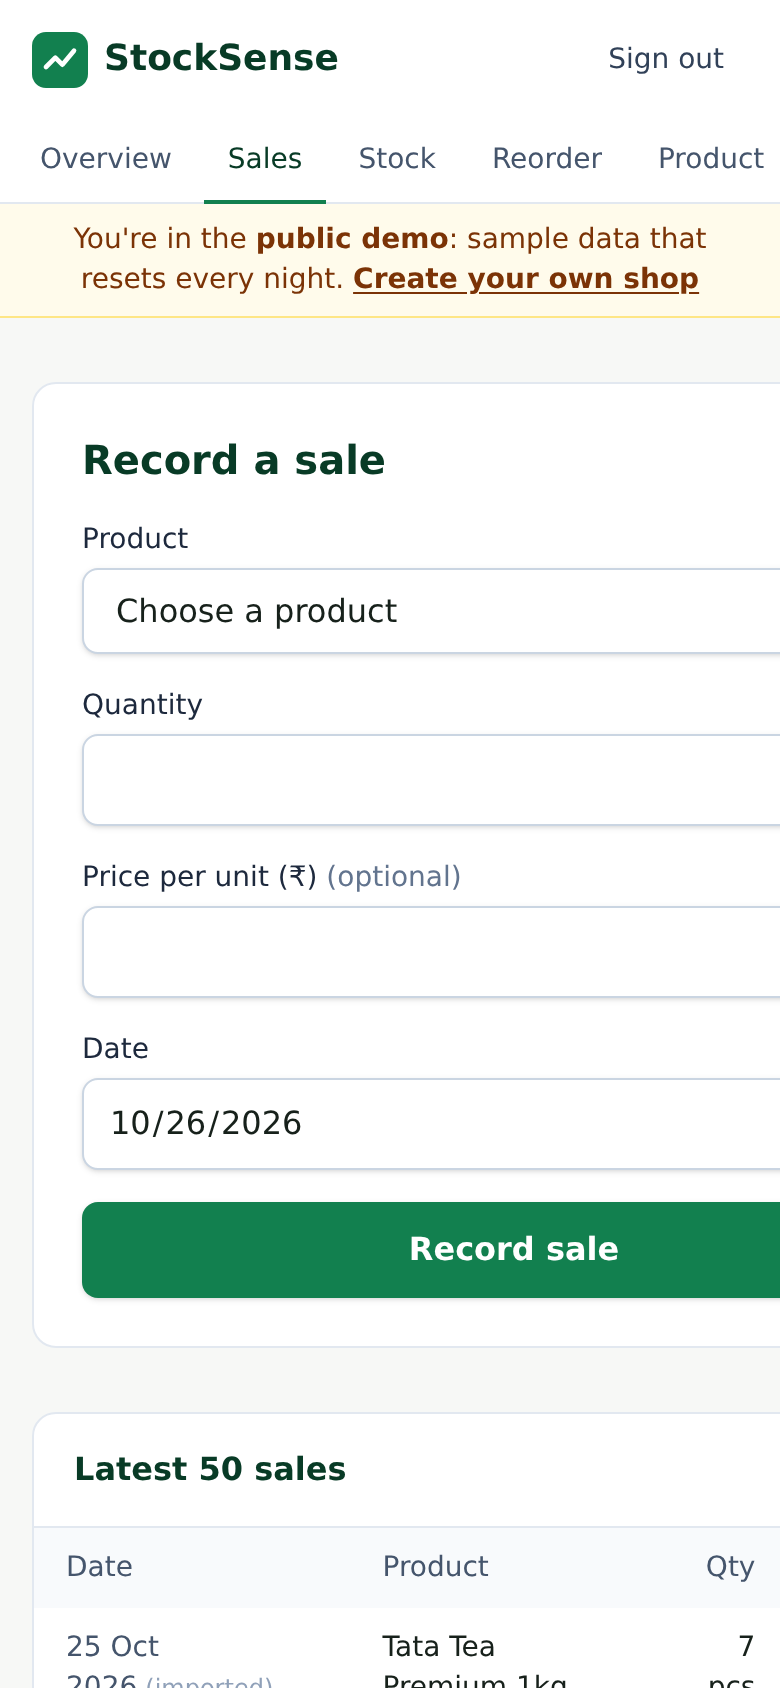
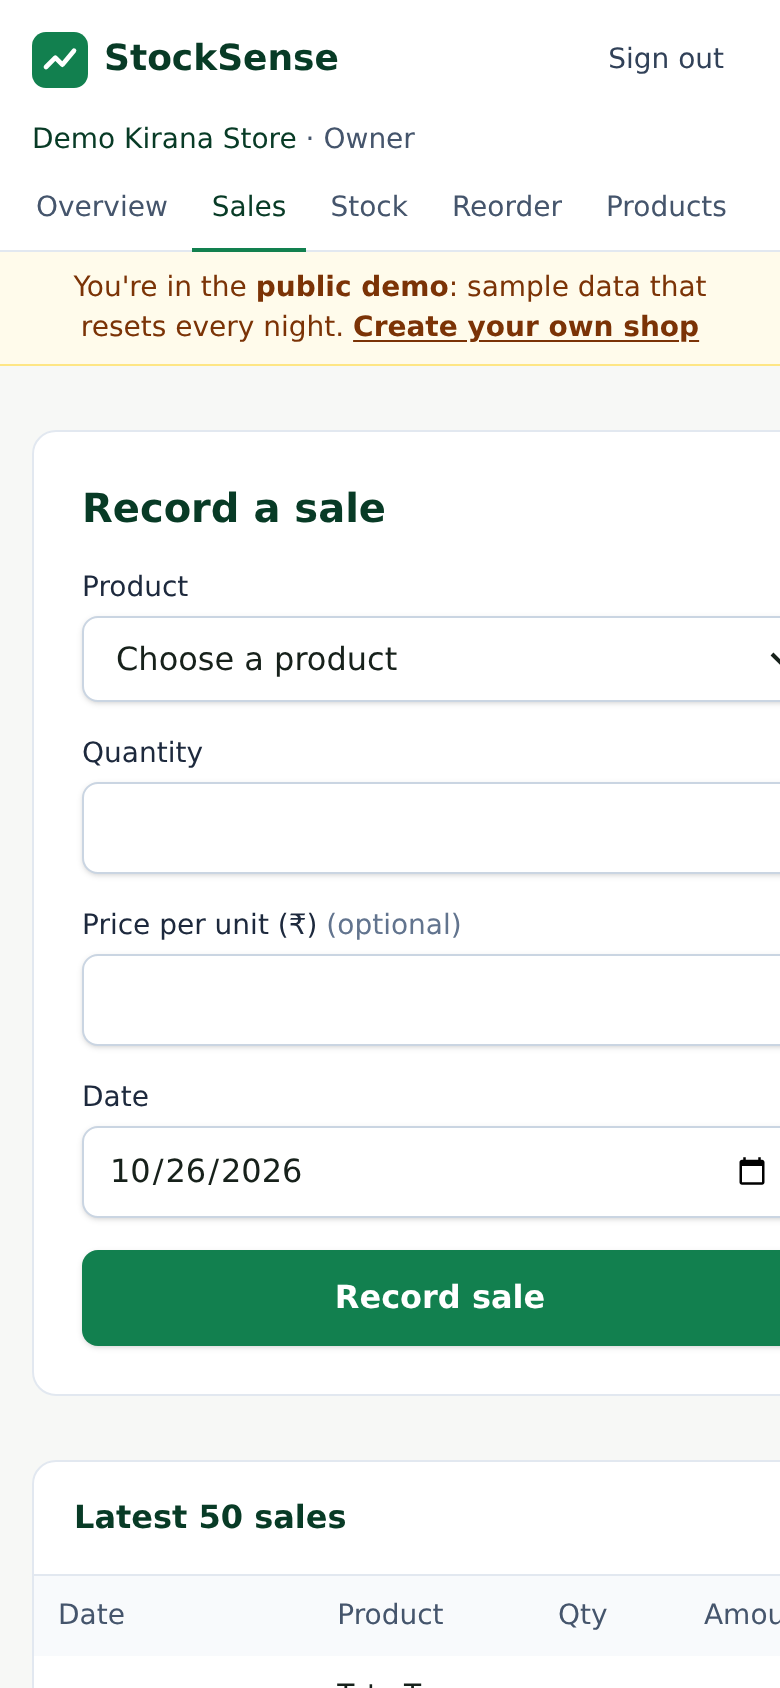
M5: Kaggle benchmark results, new screenshots, handoff
- ml/reports-kaggle: LightGBM on all 500 Kaggle Store Item Demand series (56,000 forecasts):
  WAPE 11.1% vs 18.3% for the best baseline, 39.2% lower, bias +0.4%. Numbers as produced by the
  benchmark workflow; the dataset label and closing caveat were reworded to match the updated
  generator ("public benchmark", not "real sales": Kaggle's set is cleaner than a real shop's)
- README: results table with all three datasets and an honest caveat, accessibility checks,
  phone screenshot of the new Reorder cards; ml/README and HANDOFF updated

Claude-Session: https://claude.ai/code/session_01EBaM9dB2eYS74HRJZKaYvB

diff --git a/ml/stocksense_ml/cli.py b/ml/stocksense_ml/cli.py
@@ -57,8 +57,10 @@ def closing_note(synthetic: list[bool]) -> str:
             "with known patterns; accuracy on a real shop is only known once real sales history exists."
         )
     return (
-        "Datasets not marked synthetic are real sales history. Festival features use an Indian festival calendar, "
-        "so on non-Indian data they carry no signal and the festive-day column is empty."
+        "This dataset was not generated by StockSense: it is a public benchmark of daily store-item sales, "
+        "cleaner and more regular than a typical small shop's history, so expect lower accuracy on a real shop. "
+        "Festival features use an Indian festival calendar, so on non-Indian data they carry no signal and the "
+        "festive-day column is empty."
     )
 
 

diff --git a/ml/tests/test_report.py b/ml/tests/test_report.py
@@ -10,10 +10,9 @@ def test_default_report_keeps_synthetic_caveat():
     assert note.startswith("Both datasets are synthetic")
 
 
-def test_real_data_is_not_called_synthetic():
+def test_outside_data_gets_its_own_caveat():
     note = closing_note([False])
-    assert "synthetic" not in note.split(".")[0].lower().replace("not marked synthetic", "")
-    assert "real sales history" in note
+    assert "not generated by StockSense" in note and "lower accuracy on a real shop" in note
 
 
 def test_missing_festive_days_shown_as_dash():

diff --git a/README.md b/README.md
@@ -18,7 +18,7 @@ The demo is a sample kirana shop with a year of **synthetic** sales. It resets e
 
 | Reorder list | Stock count | On a phone |
 | --- | --- | --- |
-| <img src="docs/screenshots/desktop-reorder.png" alt="Reorder list with status, stock, days left and suggested order" width="360"> | <img src="docs/screenshots/desktop-stock-count.png" alt="Stock count page" width="360"> | <img src="docs/screenshots/mobile-overview.png" alt="Overview on a phone" width="180"> |
+| <img src="docs/screenshots/desktop-reorder.png" alt="Reorder list with status, stock, days left and suggested order" width="360"> | <img src="docs/screenshots/desktop-stock-count.png" alt="Stock count page" width="360"> | <img src="docs/screenshots/mobile-reorder.png" alt="Reorder list on a phone, one card per product" width="180"> |
 
 ## What it does
 
@@ -76,16 +76,17 @@ flowchart LR
 
 ## Forecast quality
 
-Rolling-origin backtest: at each of 8 weekly origins the model is retrained on what was known that day and scored on the next 14 days for all 30 products (3,360 forecasts). WAPE = total absolute error / total units sold (lower is better).
+Rolling-origin backtest: at each of 8 weekly origins the model is retrained on what was known that day only and scored on the next 14 days for every product. WAPE = total absolute error / total units sold (lower is better). The "best simple rule" is the best of four baselines: last day, same weekday last week, 7-day and 28-day averages.
 
-| Data | Best simple rule (28-day average) | LightGBM | Improvement |
-| --- | ---: | ---: | ---: |
-| Sample shop, 1 year | 26.5% | **24.5%** | 7.6% |
-| Synthetic shop, 3 years | 25.3% | **21.0%** | 17.1% |
+| Data | Series × days | Forecasts scored | Best simple rule | LightGBM | Improvement |
+| --- | ---: | ---: | ---: | ---: | ---: |
+| **Kaggle Store Item Demand** (public benchmark) | 500 × 1,826 | 56,000 | 18.3% (7-day avg) | **11.1%** | **39.2%** |
+| Sample shop, 1 year (synthetic) | 30 × 365 | 3,360 | 26.5% (28-day avg) | **24.5%** | 7.6% |
+| Synthetic shop, 3 years | 30 × 1,029 | 3,360 | 25.3% (28-day avg) | **21.0%** | 17.1% |
 
-Full tables (MAE, bias, festive days, features) are in [ml/reports/metrics.md](ml/reports/metrics.md), regenerated by `make train` and in CI. A test corrupts the future to prove no feature leaks it.
+On the Kaggle data (10 stores × 50 items, 2013–2017) the model is also almost unbiased (+0.4% vs +5% or more for the baselines) and stays between 10% and 12.5% WAPE from 1 to 14 days ahead. Reports: [ml/reports-kaggle/metrics.md](ml/reports-kaggle/metrics.md) (run by the *Real-data benchmark* workflow; the Kaggle data is never committed) and [ml/reports/metrics.md](ml/reports/metrics.md) (`make train`, also in CI). A test corrupts the future to prove no feature leaks it.
 
-> **Honest caveat:** both datasets are synthetic. They show the pipeline is correct and beats simple rules on known patterns. Accuracy on a real shop is unknown until real sales history exists.
+> **Honest caveat:** the Kaggle set is a public practice dataset that is much cleaner and more regular than a small Indian shop's sales, and the other two are generated. Together they show the model reliably beats simple rules; how accurate it is for a particular shop is only known once that shop has a few months of real history.
 
 **Reorder rule** (`apps/web/src/lib/reorder.ts`): *Order now* if stock ≤ forecast demand over the supplier lead time + reorder point; *Order soon* if stock ≤ demand over lead time + 7 days + reorder point; the suggestion tops stock up to the second level.
 
@@ -138,7 +139,7 @@ cd services/api && ruff check . && pytest
 make ml-lint ml-test train      # forecasting: lint, tests, backtest report
 ```
 
-CI runs all of these on every push and pull request. **End-to-end tests** ([e2e/](e2e/README.md)) drive real Chromium through the main flows on the live site after every production deploy: create a shop, import a year of sales, receive stock, sell, count, forecast, reorder, invite staff and check their limits, sign out. They use throwaway users that are deleted afterwards. Database rules are checked in the Supabase SQL editor: `supabase/tests/rls_test.sql` (cross-shop isolation, staff limits, import rules) must end with `ALL_RLS_TESTS_PASSED` and `supabase/tests/demo_test.sql` with `DEMO_TESTS_PASSED`; both run in a transaction that is rolled back.
+CI runs all of these on every push and pull request. **Accessibility:** after every production deploy, axe-core checks all 13 pages (public and dashboard) against WCAG 2.2 A/AA at desktop and phone size, no page may scroll sideways on a 390 px phone, and the skip link must reach the content; the last run found no issues. **End-to-end tests** ([e2e/](e2e/README.md)) drive real Chromium through the main flows on the live site after every production deploy: create a shop, import a year of sales, receive stock, sell, count, forecast, reorder, invite staff and check their limits, sign out. They use throwaway users that are deleted afterwards. Database rules are checked in the Supabase SQL editor: `supabase/tests/rls_test.sql` (cross-shop isolation, staff limits, import rules) must end with `ALL_RLS_TESTS_PASSED` and `supabase/tests/demo_test.sql` with `DEMO_TESTS_PASSED`; both run in a transaction that is rolled back.
 
 ## Environment variables
 
@@ -164,7 +165,7 @@ Templates: `apps/web/.env.example`, `services/api/.env.example`. Never commit re
 
 ## Limitations
 
-- **No real shop data yet.** All accuracy numbers come from synthetic sales; real-world accuracy is unproven.
+- **No real shop data yet.** Accuracy is measured on generated data and a clean public benchmark; accuracy for a real kirana is unproven.
 - **Forecasts are nightly**, not live: a sale recorded now changes stock immediately but affects the forecast the next morning. Products with under 60 days of history get a 28-day average instead of the model.
 - **Festival calendar** (`ml/stocksense_ml/festivals.csv`) covers Gujarat-relevant festivals for 2024–2027 and needs next years' dates added.
 - **One shop per account in the app** (the database allows more), no barcode scanning, no point-of-sale or accounting integration, no purchase-order tracking: suggested orders are advice, received stock is entered on the Stock page.

diff --git a/HANDOFF.md b/HANDOFF.md
@@ -14,10 +14,12 @@ M5 plan:
 - [x] Public demo account (PR #7): "Try the live demo" on landing + login, banner, `demo@example.com` / `stocksense-demo-2026` (public on purpose, in `apps/web/src/lib/demo-account.json`, shared with the nightly job). Reset nightly by `python -m stocksense_ml demo-reset` (runs first in `forecast.yml`, failure doesn't block real shops) via SQL `demo_prepare()` (service_role only; refuses non-demo users; `supabase/tests/demo_test.sql` passes on the live project). The demo password can't be changed and no reset email is sent to it.
 - [x] Screenshots: `screenshots.yml` (manual) logs in as the demo user on the live site and pushes desktop + mobile PNGs to branch `m5-screenshots`; copy `docs/screenshots` from it (the build sandbox can't reach the live site or download artifacts). Re-run after UI changes.
 - [x] README showcase: live demo + credentials, screenshots, Mermaid architecture, forecast results, demo account, limitations
-- [ ] Real-data benchmark on Kaggle Store Item Demand (needs the data from somewhere the build sandbox can reach, e.g. a GitHub Actions run)
+- [x] Kaggle benchmark (PR #9 workflow, results PR #12): `benchmark.yml` (manual) downloads `train.csv` with repository secret `KAGGLE_JSON` (owner's kaggle.json, added 2026-10-26) and pushes only the report to branch `m5-benchmark`; committed copy in `ml/reports-kaggle/`. All 500 series, 56,000 forecasts, 37 min: LightGBM WAPE 11.1% vs 18.3% (7-day avg), 39.2% lower, bias +0.4%. Described as a public benchmark (cleaner than a real shop), not "real shop data".
 - [x] End-to-end tests (`e2e/`, Playwright Python + pytest, `.github/workflows/e2e.yml`): run on the live site after each production deploy and on demand; throwaway users flagged `app_metadata.e2e` are swept at start and end. `nightly --shop <id>` forecasts one shop. Covers sign-out/login re-check.
-- [ ] Mobile + accessibility pass (keyboard, contrast, screen-reader labels). Found in the mobile screenshots: the Reorder table is cut off sideways at 390 px, dashboard tabs are clipped ("Product…"), the shop name is hidden on small screens
-- [ ] Re-check sign-out/login on the live site; fix Render auto-deploy before any API change
+- [x] Mobile + accessibility pass (PR #11): Reorder and Products use cards on phones, tabs keep the current one in view, shop name on phones, two contrast fixes. `e2e/test_accessibility.py`: axe-core WCAG 2.2 A/AA on 13 pages × desktop/phone, no sideways scroll at 390 px, skip link. First run: 0 violations of any level, 12/12 tests pass.
+- [ ] Owner checks the live site on a real phone (demo + own shop)
+- [x] Sign-out/login on the live site: covered by E2E after every deploy
+- [ ] Fix Render auto-deploy before any API change
 
 ## Deployments
 
@@ -75,7 +77,7 @@ M5 plan:
 - GitHub pauses scheduled workflows after 60 days without repository activity; re-enable from the Actions tab if that happens.
 
 - LightGBM cannot be installed in the build sandbox; locally the pipeline runs with `--engine sklearn` (HistGradientBoosting). CI is the source of truth for LightGBM metrics.
-- Kaggle real-data benchmark not run yet (kaggle.com is not reachable from the build sandbox; a GitHub Actions run can fetch it); command is in `ml/README.md`.
+- kaggle.com and the live site are not reachable from the build sandbox; anything that needs them runs in GitHub Actions and reports through annotations or a pushed branch.
 - The web app does not call the FastAPI service yet (`NEXT_PUBLIC_API_URL` is unused); the README says so.
 - `gh pr create` and other GraphQL calls are blocked in the build sandbox; use `gh api repos/EBharadwaj09/stocksense/pulls` (REST). Workflow annotations are the way to read job output.
 
@@ -84,7 +86,9 @@ M5 plan:
 
 ## Next task
 
-M5, in this order: real-data benchmark (Kaggle) → end-to-end tests → mobile + accessibility pass. Then final checks (sign-out/login on the live site, Render auto-deploy) and close M5.
+Close M5: owner's phone check, then fix Render auto-deploy (reconnect Render's GitHub app or deploy manually; needed before any API change). Sign-out/login on the live site is now covered by the E2E run after every deploy.
+
+E2E runs automatically on Vercel's success status for `main` (`e2e.yml`, `status` event: Vercel sets commit statuses, not GitHub deployments). Re-run Screenshots after UI changes and copy `docs/screenshots` from `m5-screenshots`.
 
 Workflow: schema changes = new file in `supabase/migrations/` + apply with the Supabase connector + regenerate `apps/web/src/lib/database.types.ts`. Feature work on a branch → PR → CI green → merge (Vercel deploys main).
 

diff --git a/ml/reports-kaggle/metrics.md b/ml/reports-kaggle/metrics.md
@@ -1,0 +1,30 @@
+# StockSense forecast backtest
+
+Generated by `make train`. Do not edit by hand.
+
+- **MAE**: average absolute error per product-day, in units.
+- **WAPE**: total absolute error / total units sold (lower is better; 20% = off by 1 in 5 units).
+- **Bias**: total forecast / total actual - 1 (positive = over-forecasting).
+- **WAPE festive days**: WAPE on target days inside a festival shopping window.
+- Rolling origin: at each weekly origin the model is retrained on data up to that day only and forecasts the next 14 days for every product.
+
+### Kaggle Store Item Demand (public benchmark, 10 stores x 50 items, 2013-2017)
+
+500 products · 1826 days (2013-01-01 to 2017-12-31) · 0 invalid rows skipped  
+8 weekly origins (2017-10-29 to 2017-12-17) · 14-day horizon · 56,000 scored forecasts · 2210 s
+
+| Model | MAE (units/day) | WAPE | Bias | WAPE festive days |
+|---|---:|---:|---:|---:|
+| Naive (last day) | 14.97 | 28.2% | +22.6% | — |
+| Seasonal naive (same weekday) | 10.17 | 19.1% | +5.1% | — |
+| Moving average 7d | 9.73 | 18.3% | +5.1% | — |
+| Moving average 28d | 11.06 | 20.8% | +9.3% | — |
+| **LightGBM** | 5.92 | 11.1% | +0.4% | — |
+
+LightGBM WAPE is **39.2% lower** than the best baseline.
+
+Top features (gain): same_dow_4w 71%, mean_7 16%, snaive 6%, last_year_7 2%, month 2%, mean_28 1%.
+
+This dataset was not generated by StockSense: it is a public benchmark of daily store-item sales, cleaner and more regular than a typical small shop's history, so expect lower accuracy on a real shop. Festival features use an Indian festival calendar, so on non-Indian data they carry no signal and the festive-day column is empty.
+
+Environment: Python 3.12.15 · pandas 3.1.0 · numpy 2.5.4 · LightGBM 4.7.0.

diff --git a/ml/README.md b/ml/README.md
@@ -41,6 +41,10 @@ To benchmark on public real data, download Kaggle's
 `KAGGLE_JSON` secret, see `.github/workflows/benchmark.yml`); it pushes the report to the `m5-benchmark` branch.
 The Kaggle data itself is never committed.
 
+Result (all 500 store-item series, 56,000 scored forecasts, [reports-kaggle/metrics.md](reports-kaggle/metrics.md)):
+LightGBM WAPE 11.1% vs 18.3% for the best baseline (7-day average), 39.2% lower, bias +0.4%. The run takes
+about 37 minutes on a GitHub runner.
+
 ## Festivals
 
 `stocksense_ml/festivals.csv` lists Gujarat-relevant festivals 2024–2027 (start, end, shopping lead days).
